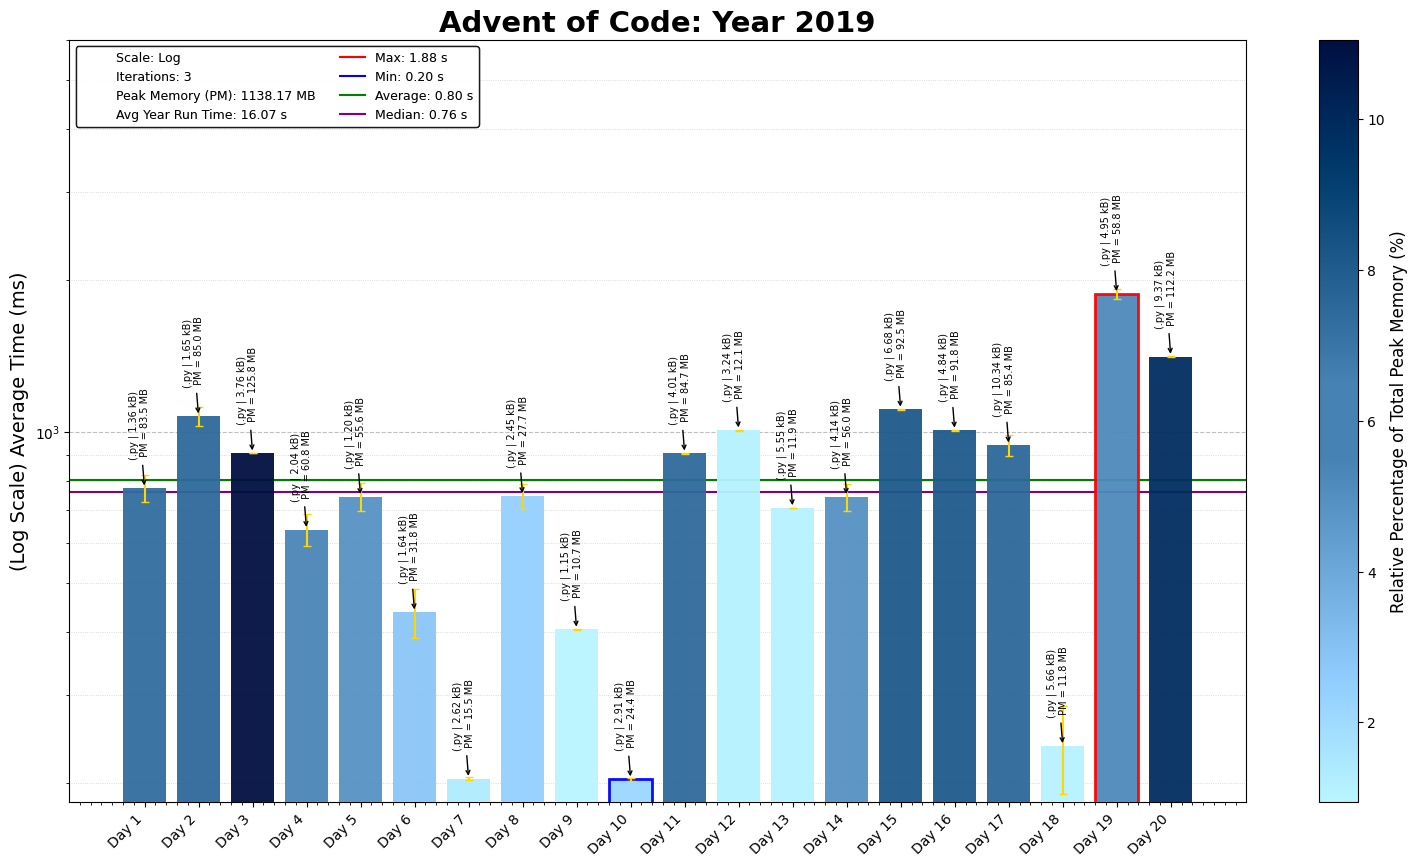
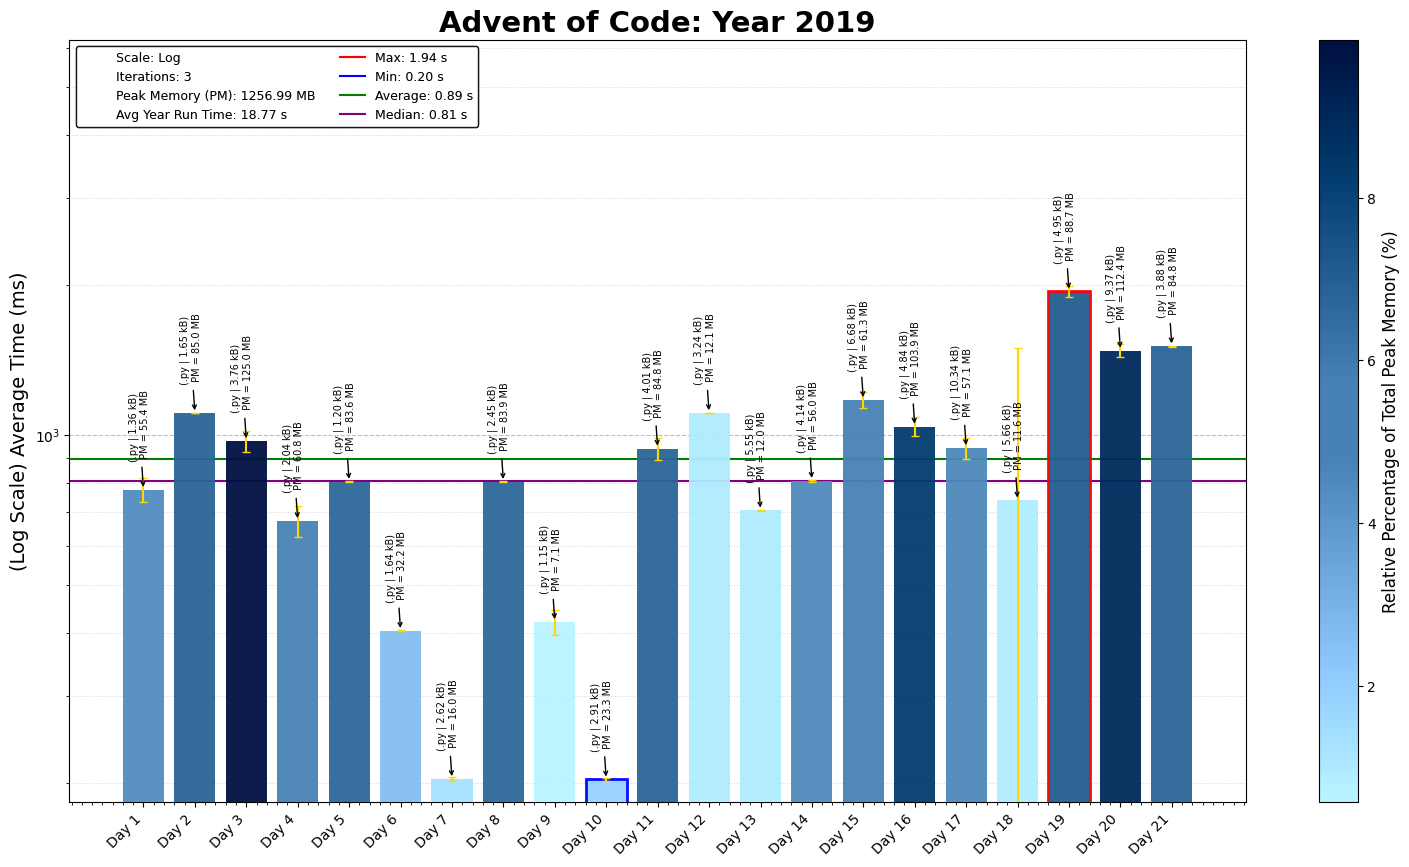
2019 Day 21(w/ prefound soln, write springscript)

diff --git a/2019/21/2019Day21.py b/2019/21/2019Day21.py
@@ -1,0 +1,134 @@
+"""Advent of Code - Day 21, Year 2019
+Solution Started: Feb 11, 2025
+Puzzle Link: https://adventofcode.com/2019/day/21
+Solution by: abbasmoosajee07
+Brief: [Intcode Springdroid]
+"""
+
+#!/usr/bin/env python3
+
+import os, re, copy, time, sys
+import numpy as np
+import pandas as pd
+import matplotlib.pyplot as plt
+start_time = time.time()
+
+intcode_path = os.path.join(os.path.dirname(__file__), "..", "Intcode_Computer")
+sys.path.append(intcode_path)
+# from Intcode_Computer import Intcode_CPU
+
+# Load the input data from the specified file path
+D21_file = "Day21_input.txt"
+D21_file_path = os.path.join(os.path.dirname(os.path.abspath(__file__)), D21_file)
+
+# Read and sort input data into a grid
+with open(D21_file_path) as file:
+    input_data = file.read().strip().split(',')
+    input_program = [int(num) for num in input_data]
+
+class Intcode_Springdroid:
+    MAX_MEMORY = 15
+
+    def __init__(self, springscript: list[int]):
+        self.script = springscript
+        self.temp_val = False
+        self.jump_val = False
+        from Intcode_Computer import Intcode_CPU
+        self.droid = Intcode_CPU(springscript, debug = False)
+
+    def run_droids(self, script: str, visualize: bool = False):
+        inp_list = [ord(val) for val in list(script)]
+        use_droid = self.droid.replicate()
+        for num in inp_list:
+            use_droid.paused = False
+            use_droid.process_program(external_input = num)
+            if visualize:
+                self.build_structure(use_droid.get_result('output')[:-1], True)
+        output = use_droid.get_result('output')
+        return max(output)
+
+    def build_structure(self, nav_output: list[int] = None, visualize: bool = False):
+        """
+        Process navigation output and build the ship hull.
+        Optionally visualize the maze.
+        """
+        x, y = 1, 1
+        structure = {}
+        scaffold = set()
+        for ascii_code in nav_output:
+            if ascii_code == 10:
+                y += 1
+                x = 0
+            else:
+                char = chr(ascii_code)
+                structure[(x, y)] = char
+                if char in '^v<>':
+                    self.robot_start = (x, y)
+                if char == '#':
+                    scaffold.add((x, y))
+            x += 1
+
+        if visualize:
+            self.print_maze(structure)
+
+        self.structure = structure
+        self.scaffold = scaffold
+        return structure
+
+    def print_maze(self, grid_dict: dict, path_taken: dict = {}):
+        """
+        Display the maze with the current state, optionally highlighting a path.
+        """
+        coords_set = set(grid_dict.keys())
+        min_x = min(x for x, _ in coords_set)
+        max_x = max(x for x, _ in coords_set)
+        min_y = min(y for _, y in coords_set)
+        max_y = max(y for _, y in coords_set)
+
+        tiles_grid = []
+        for y in range(min_y, max_y + 1):
+            row = ''
+            for x in range(min_x, max_x + 1):
+                if (x, y) in path_taken:
+                    row += path_taken.get((x, y), ' ')
+                else:
+                    row += grid_dict.get((x, y), ' ')
+
+            tiles_grid.append(row)
+
+        print("\n".join(tiles_grid))
+        print("_" * len(tiles_grid[0]))
+        return tiles_grid
+
+walk_script = """\
+    NOT A J
+    NOT B T
+    OR T J
+    NOT C T
+    OR T J
+    AND D J
+    WALK
+    """
+
+run_script ="""\
+    NOT A J
+    NOT B T
+    OR T J
+    NOT C T
+    OR T J
+    AND D J
+    NOT H T
+    NOT T T
+    OR E T
+    AND T J
+    RUN
+    """
+
+springs = Intcode_Springdroid(input_program)
+walk_score = springs.run_droids(walk_script)
+print("Part 1:", walk_score)
+
+run_score = springs.run_droids(run_script)
+print("Part 2:", run_score)
+# print(f"\nExecution Time: {time.time() - start_time:.5f}s")
+# print(f"Execution Time = {time.time() - start_time:.5f}s")
